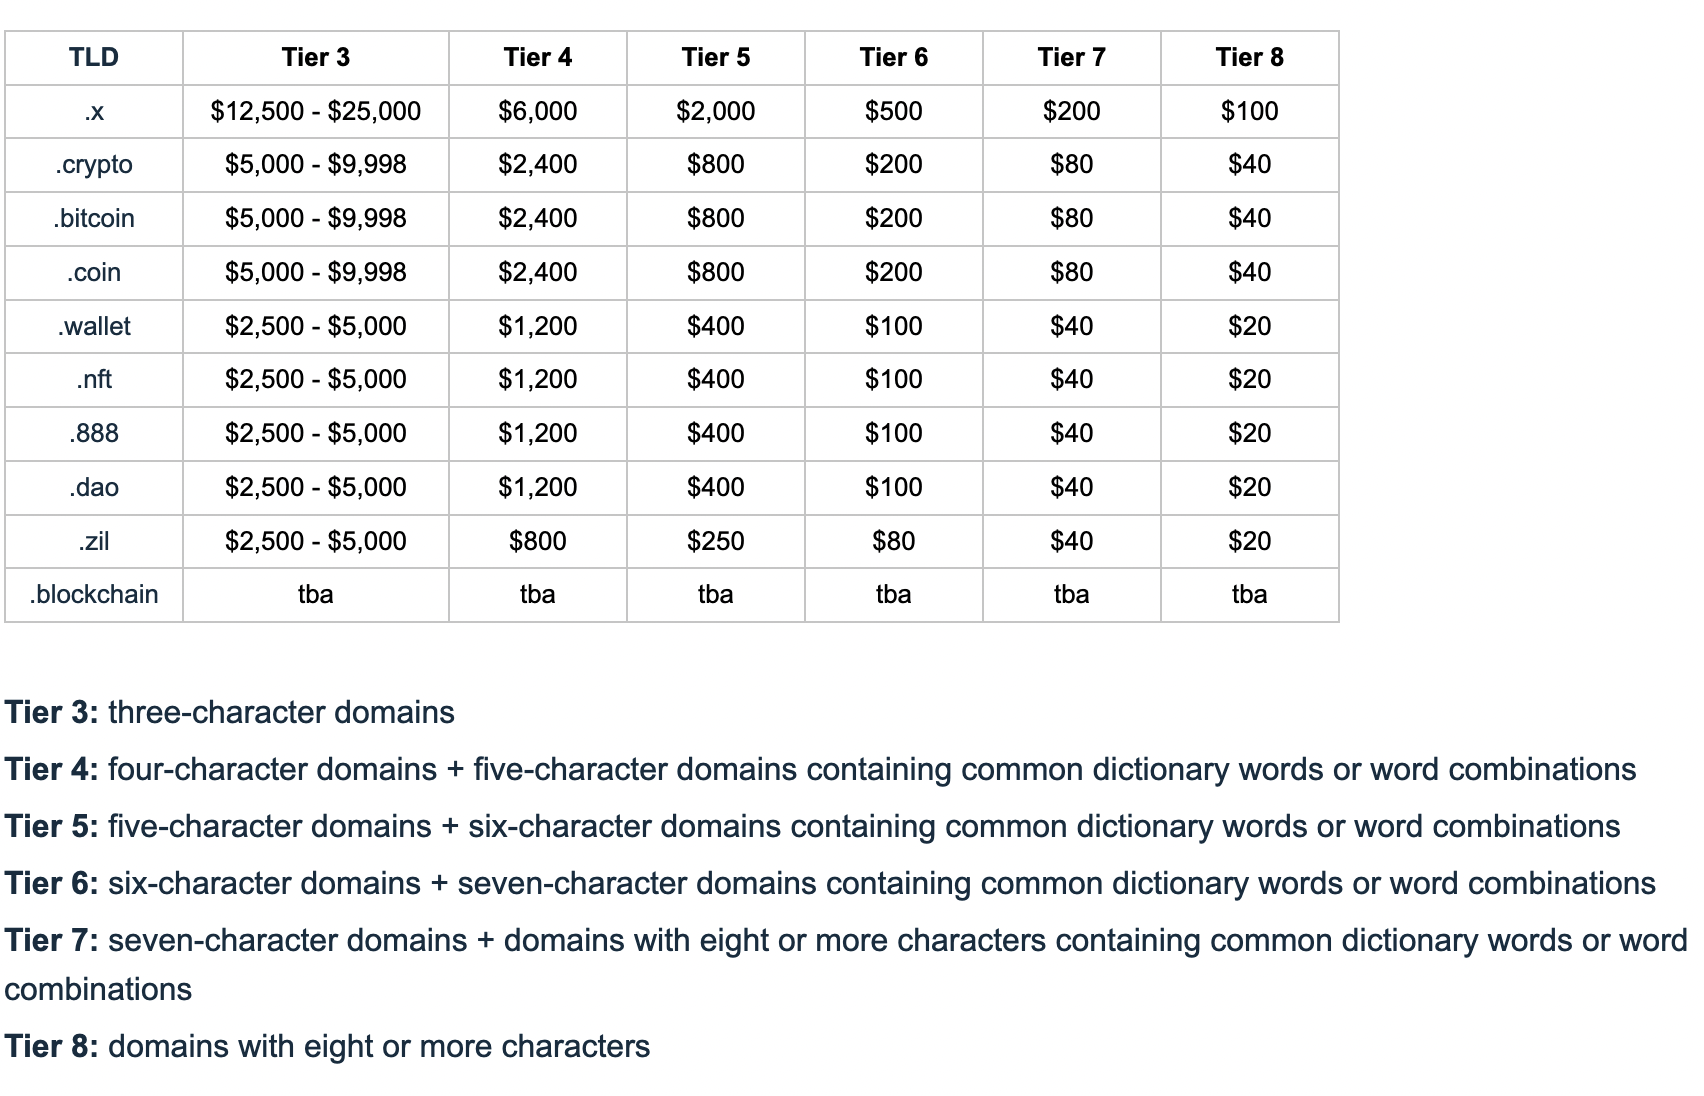
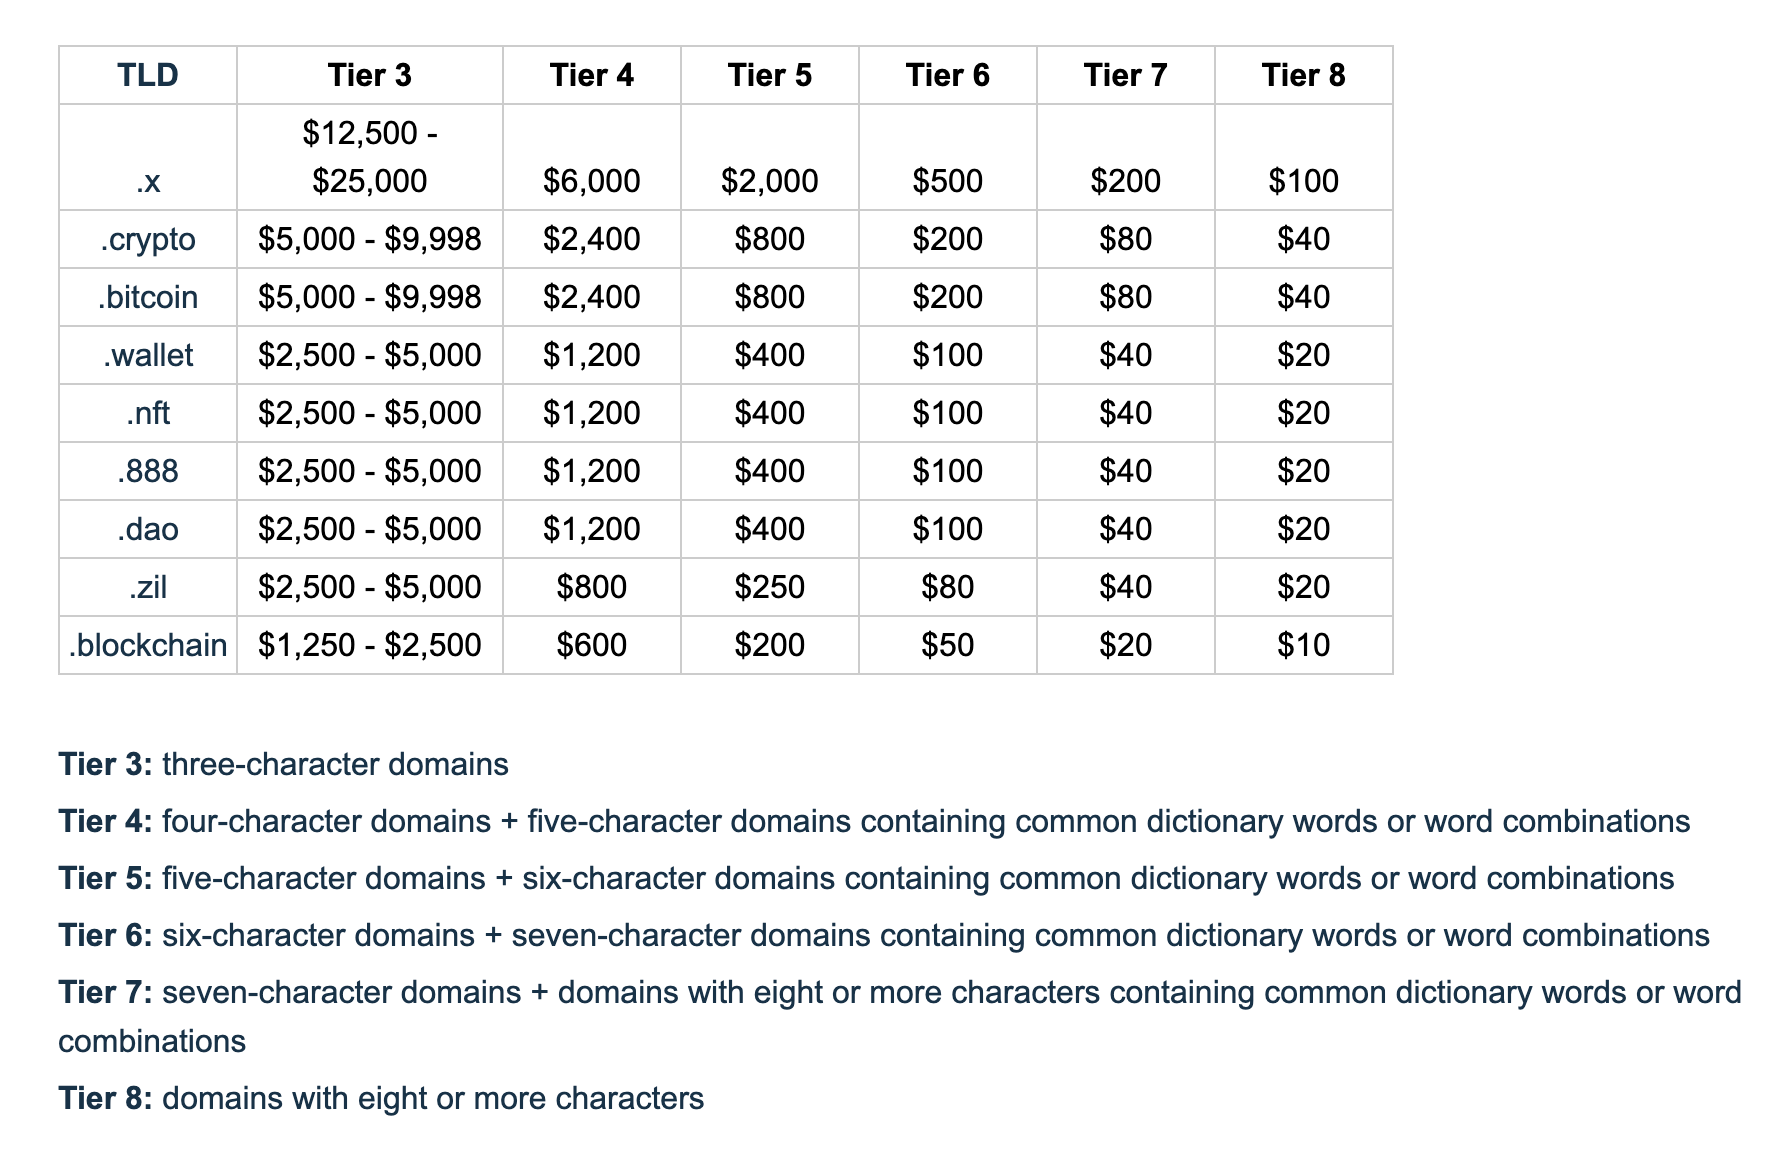
update pricing tiers for UD domains image

Changed region(s): [[0.0, 0.031, 0.7776, 0.5894], [0.0, 0.6204, 0.9953, 0.9617]]

diff --git a/partner/partner-api-endpoints.md b/partner/partner-api-endpoints.md
@@ -5,13 +5,7 @@ description: This page details the Partner API endpoints and links to the extern
 
 # Partner API Endpoints
 
-For more details about the Partner API endpoints, see the [Partner API endpoint specification](https://raw.githubusercontent.com/unstoppabledomains/website-api-docs-v2/master/openapi.yaml). These endpoints are specified in OpenAPI format, which provides an [interactive API explorer](https://docs.unstoppabledomains.com/openapi/reference/) in which you can try out sample API calls.
-
-:::info
-The Partner API is limited to 60 requests per hour. However, this is subject to change in the future.
-:::
-
-The Partner API endpoints are as follows:
+Below is a table of all the API endpoints provided by the Partner API, a description of their function, and links to their respective documentation. For more details about the endpoints, see the [Partner API endpoint specification](https://raw.githubusercontent.com/unstoppabledomains/website-api-docs-v2/master/openapi.yaml).
 
 | Endpoint | Description | Documentation |
 | - | - | - |
@@ -22,6 +16,10 @@ The Partner API endpoints are as follows:
 | Get Order Status | provides the status of your order and tells if the domain has successfully "minted" | [Get Order Status Docs](https://docs.unstoppabledomains.com/openapi/reference/#tag/orders/paths/~1orders~1%7BorderNumber%7D/get) |
 | Reserve Free Domain Name | reserves a free and available domain for seven days; the domain is automatically unlocked if it is not minted within seven days | [Reserve Free Domain Name Docs](https://docs.unstoppabledomains.com/openapi/reference/#tag/domains/paths/~1domains~1%7BdomainName%7D~1reserve/post) |
 | Get Fingerprint Public Key | provides a Fingerprint public key to generate a `Visitor ID` for your order security; the endpoint returns a different key when called to avoid rate limitations | [Get Fingerprint Public Key Docs](https://docs.unstoppabledomains.com/openapi/reference/#tag/security/paths/~1security~1fingerprintjs~1keys/post) |
+
+:::info
+The Partner API is limited to 60 requests per hour. However, this is subject to change in the future.
+:::
 
 <embed src="/snippets/_discord.md" />
 
